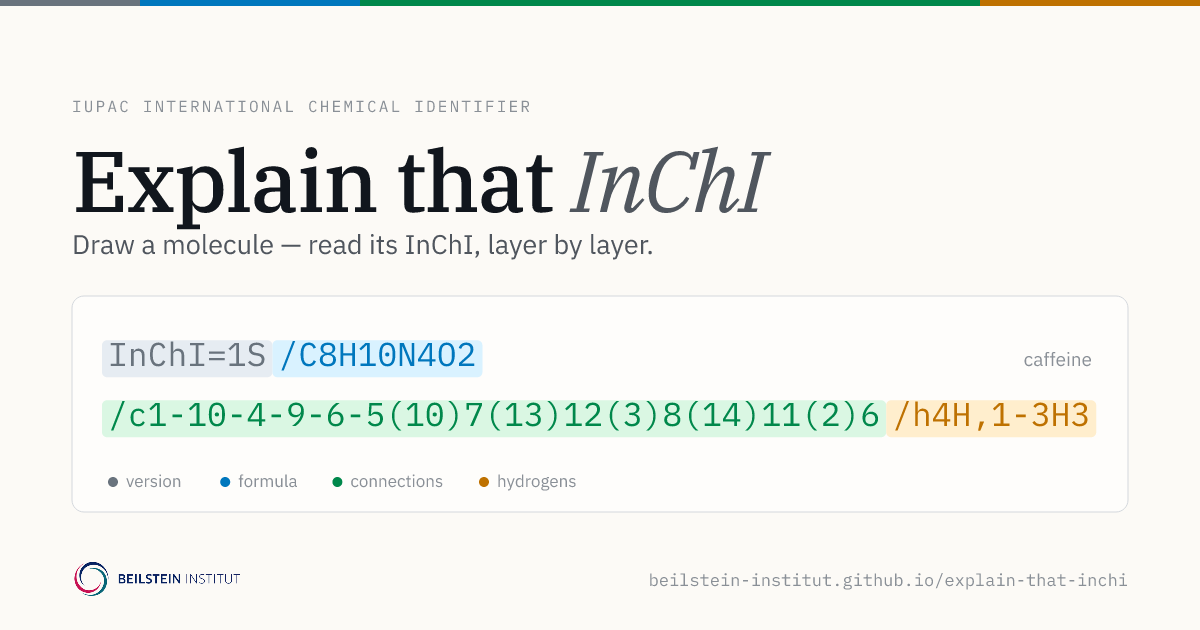
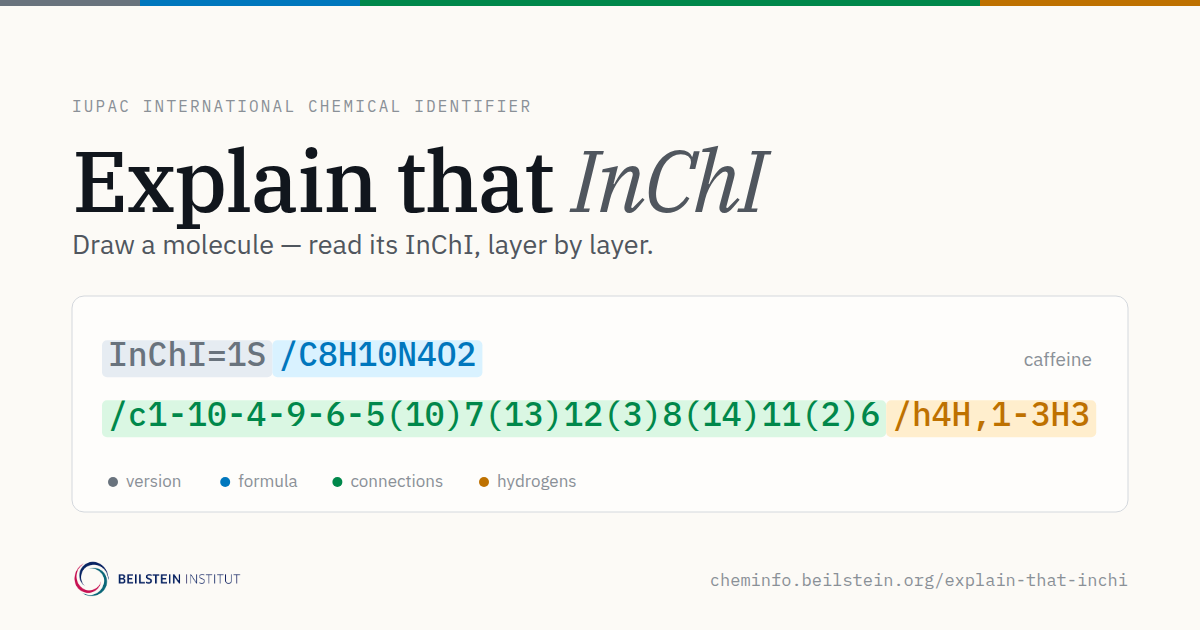
chore(og): regenerate social preview with the new domain
The OG card renders the site domain as text in its footer, so the URL swap in
6fa9b03 left it showing beilstein-institut.github.io. Re-rendered at 1200x630
with the IBM Plex faces from node_modules/@fontsource embedded as data URIs, so
the typography matches the previous card exactly rather than falling back to
system fonts.

Also corrects the index.html comment, which claimed scripts/og-image.mjs
regenerates the PNG. It only emits the SVG; rasterizing is a separate step.

diff --git a/index.html b/index.html
@@ -12,7 +12,12 @@
     <link rel="icon" type="image/svg+xml" href="favicon.svg" />
 
     <!-- Social preview. Absolute URLs are required: scrapers do not resolve
-         relative paths. og-image.png is regenerated by scripts/og-image.mjs. -->
+         relative paths. To regenerate: scripts/og-image.mjs emits
+         scripts/og-image.svg (gitignored), which must then be rasterized to
+         public/og-image.png at 1200x630 with the IBM Plex fonts from
+         node_modules/@fontsource embedded — a plain SVG converter without those
+         fonts will silently substitute fallbacks. Note the SVG renders the site
+         domain as text, so it needs regenerating whenever the URL changes. -->
     <meta property="og:type" content="website" />
     <meta property="og:site_name" content="Explain that InChI" />
     <meta property="og:title" content="Explain that InChI" />
